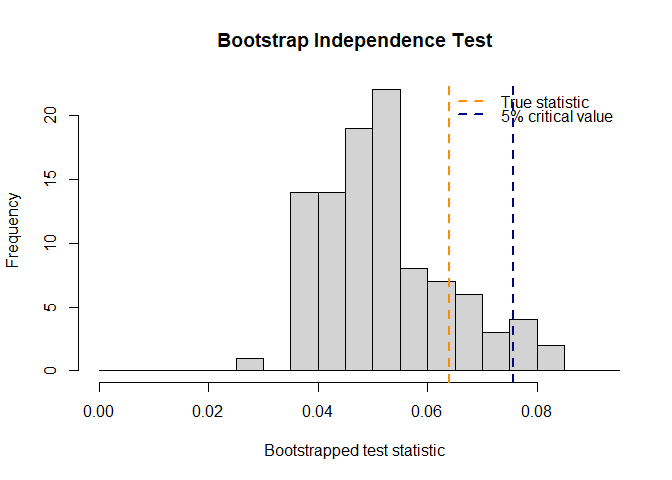
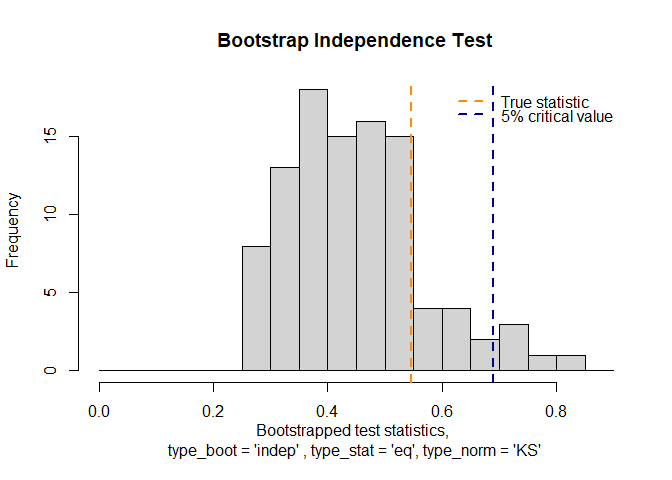
update github README + generate new figures

diff --git a/README.md b/README.md
@@ -4,7 +4,6 @@
 # Package BootstrapTests
 
 <!-- badges: start -->
-
 <!-- badges: end -->
 
 This package BootstrapTests implements several methods to perform
@@ -62,8 +61,8 @@ result <- perform_independence_test(
                           type_stat = "eq",
                           type_norm = "KS") )
 print(result)
-#>          🎯Bootstrap Independence Test Results 🎯
-#>  ======================================================== 
+#>          🎯Bootstrap Independence Test Results🎯
+#>  ===================================================== 
 #> 
 #> Performed test:
 #>   Bootstrap type           : indep
@@ -71,7 +70,7 @@ print(result)
 #>   Type of test statistic   : eq
 #>   Type of norm used        : KS
 #>   p-value                  : 0
-#>   True test statistic      : 0.1595
+#>   True test statistic      : 1.5250
 plot(result)
 ```
 
@@ -84,8 +83,8 @@ X1 <- rnorm(n)
 X2 <- rnorm(n)
 result <- perform_independence_test(X1, X2)
 print(result)
-#>          🎯Bootstrap Independence Test Results 🎯
-#>  ======================================================== 
+#>          🎯Bootstrap Independence Test Results🎯
+#>  ===================================================== 
 #> 
 #> Performed test:
 #>   Bootstrap type           : indep
@@ -93,7 +92,7 @@ print(result)
 #>   Type of test statistic   : eq
 #>   Type of norm used        : KS
 #>   p-value                  : 0.17
-#>   True test statistic      : 0.0640
+#>   True test statistic      : 0.5470
 plot(result)
 ```
 
@@ -105,20 +104,20 @@ plot(result)
 # Showing all theoretically valid options:
 result_valid <- perform_independence_test(X1, X2, bootstrapOptions = "all")
 print(result_valid)
-#>          🎯Bootstrap Independence Test Results 🎯
-#>  ======================================================== 
+#>          🎯Bootstrap Independence Test Results🎯
+#>  ===================================================== 
 #> 
 #> All test results:
 #> 
 #>  type_boot type_stat type_norm list_stat_st pvalues theoretically_valid quantile_95 quantile_99
-#>      indep        eq        L2 6.896435....    0.09                TRUE   19.383776   28.521103
-#>      indep        eq        KS 0.0498, ....    0.16                TRUE    0.077435    0.102921
-#>         NP      cent        L2 4.616682....    0.15                TRUE   15.241156   18.208424
-#>         NP      cent        KS 0.0371, ....    0.15                TRUE    0.069505    0.076838
+#>      indep        eq        L2 0.240672....    0.07                TRUE   0.7654325   1.2052494
+#>      indep        eq        KS 0.406, 0....    0.17                TRUE   0.6782000   0.8444500
+#>         NP      cent        L2 0.195994....    0.06                TRUE   0.6414353   0.8860504
+#>         NP      cent        KS 0.266, 0....    0.17                TRUE   0.6462000   0.7602500
 #> 
 #> True test statistics:
 #>       L2       KS 
-#> 12.54544  0.06400
+#> 0.627692 0.547000
 ```
 
 ### Slope testing in linear regression setting
@@ -150,15 +149,15 @@ result <- perform_regression_test(X_data, Y_data, nBootstrap = 100,
                        bootstrapOptions =  list(type_boot = "indep",
                                                 type_stat = "eq"))
 print(result)
-#>          🎯Bootstrap Regression Test Results 🎯
-#>  ====================================================== 
+#>          🎯Bootstrap Regression Test Results🎯
+#>  =================================================== 
 #> 
 #> Performed test:
 #>   Bootstrap type           : indep
 #>   Bootstrap repetitions    : 100
 #>   Type of test statistic   : eq
 #>   Slope coefficient β      : 1.063313 
-#>   p-value                  : 0.52
+#>   p-value                  : 0
 #>   True test statistic      : 10.6331
 plot(result)
 ```
@@ -172,15 +171,15 @@ X_data <- rnorm(n)
 Y_data <- 0 * X_data + rnorm(n) 
 result <- perform_regression_test(X_data, Y_data, nBootstrap = 100)
 print(result)
-#>          🎯Bootstrap Regression Test Results 🎯
-#>  ====================================================== 
+#>          🎯Bootstrap Regression Test Results🎯
+#>  =================================================== 
 #> 
 #> Performed test:
 #>   Bootstrap type           : indep
 #>   Bootstrap repetitions    : 100
 #>   Type of test statistic   : eq
 #>   Slope coefficient β      : 0.1073819 
-#>   p-value                  : 0.47
+#>   p-value                  : 0.24
 #>   True test statistic      : 1.0738
 plot(result)
 ```
@@ -192,8 +191,8 @@ plot(result)
 # Showing all theoretically valid options:
 result_valid <- perform_regression_test(X_data, Y_data, bootstrapOptions = "all")
 print(result_valid)
-#>          🎯Bootstrap Regression Test Results 🎯
-#>  ====================================================== 
+#>          🎯Bootstrap Regression Test Results🎯
+#>  =================================================== 
 #> 
 #> All test results:
 #> 
@@ -240,8 +239,8 @@ result <- perform_GoF_test(X_data,
                                                  type_estimator_bootstrap = "MLE")
                         )
 print(result)
-#>          🎯Bootstrap GoF Test Results 🎯
-#>  =============================================== 
+#>          🎯Bootstrap GoF Test Results🎯
+#>  ============================================ 
 #> 
 #> Performed test:
 #>   Bootstrap type           : param
@@ -261,8 +260,8 @@ plot(result)
 X_data <- rnorm(n)
 result <- perform_GoF_test(X_data, nBootstrap = 100)
 print(result)
-#>          🎯Bootstrap GoF Test Results 🎯
-#>  =============================================== 
+#>          🎯Bootstrap GoF Test Results🎯
+#>  ============================================ 
 #> 
 #> Performed test:
 #>   Bootstrap type           : param
@@ -281,14 +280,14 @@ plot(result)
 # Showing all theoretically valid options:
 result_valid <- perform_GoF_test(X_data, bootstrapOptions = "all")
 print(result_valid)
-#>          🎯Bootstrap GoF Test Results 🎯
-#>  =============================================== 
+#>          🎯Bootstrap GoF Test Results🎯
+#>  ============================================ 
 #> 
 #> All test results:
 #> 
 #>  type_boot type_stat type_estimator_bootstrap list_stat_st pvalues theoretically_valid quantile_95 quantile_99
 #>      param        eq                      MLE 0.451881....    0.87                TRUE   0.8199992   0.9566776
-#>      param        eq                       MD 0.345201....    0.79                TRUE   0.5972507   0.6779756
+#>      param        eq                    MD-eq 0.345201....    0.79                TRUE   0.5972507   0.6779756
 #>         NP      cent                      MLE 0.522512....    0.85                TRUE   0.8179136   1.0207223
 #>         NP      cent                  MD-cent 0.509454....    0.74                TRUE   0.6017127   0.6678917
 #> 
